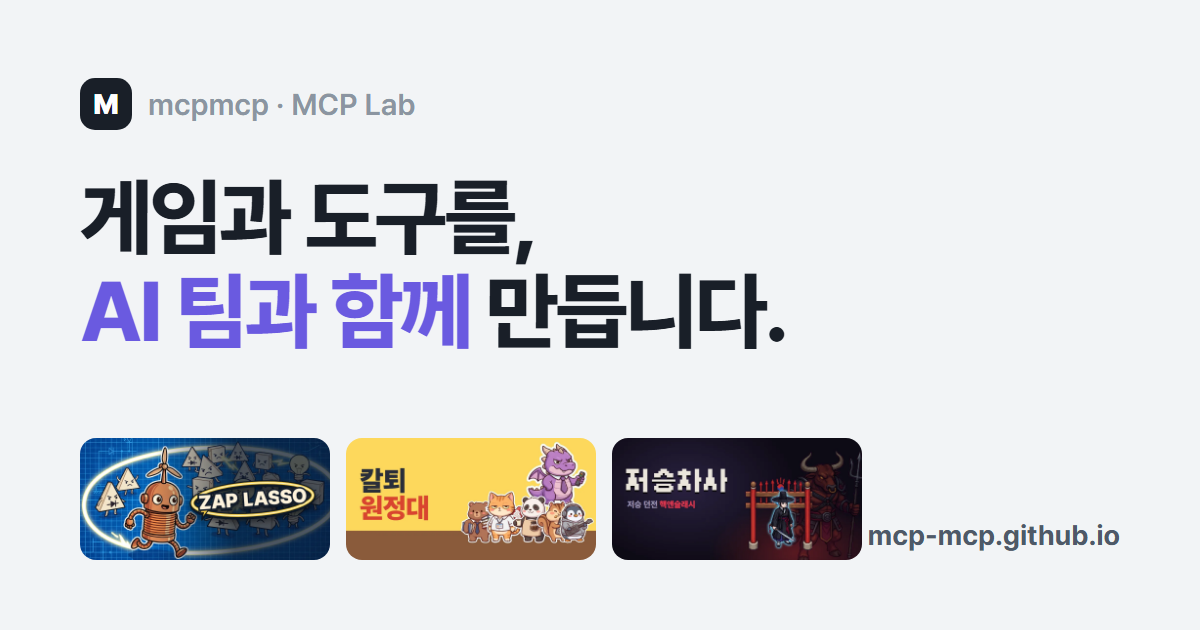
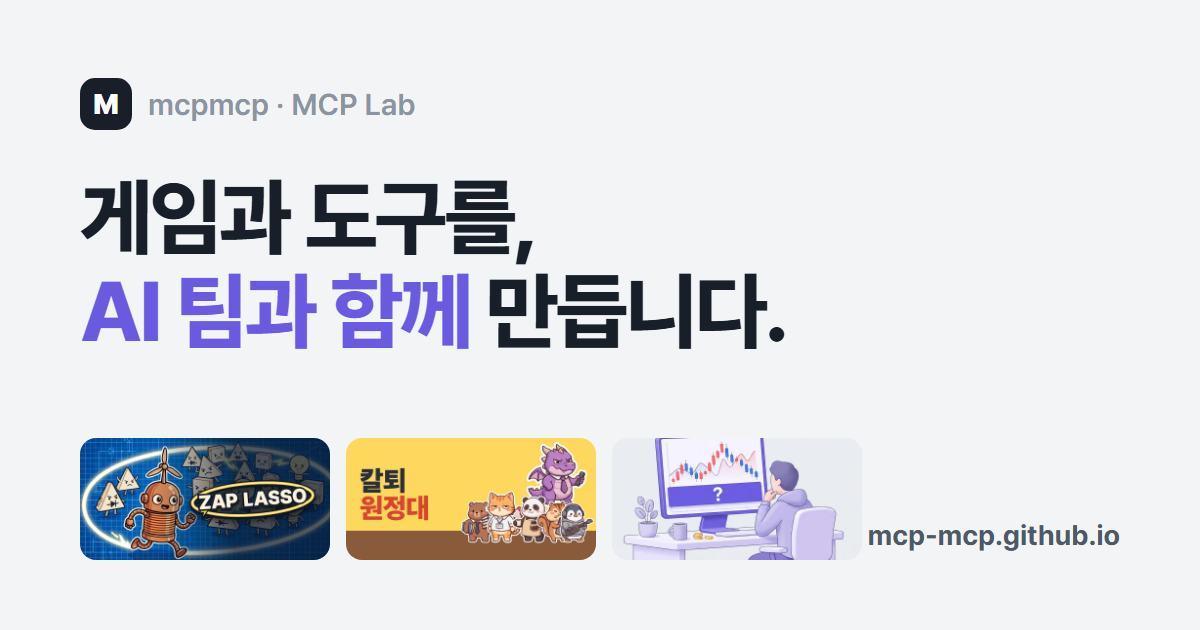
Remove discontinued game from playable list, update preview image

Changed region(s): [[0.4933, 0.6937, 0.74, 0.9048]]

diff --git a/index.html b/index.html
@@ -7,7 +7,7 @@
 <meta name="description" content="에너지 사업개발 일을 하는 비개발자가 AI 코딩 에이전트 팀과 만든 게임과 도구, 그리고 만드는 방식.">
 <meta property="og:type" content="website">
 <meta property="og:title" content="mcpmcp · Games, tools, and an AI team">
-<meta property="og:description" content="AI 코딩 에이전트 팀과 만든 게임 5종, 운영 중인 사이트 2곳, 공개 소스, 만드는 방식.">
+<meta property="og:description" content="AI 코딩 에이전트 팀과 만든 게임 4종, 운영 중인 사이트 2곳, 공개 소스, 만드는 방식.">
 <meta property="og:image" content="https://mcp-mcp.github.io/img/og.png">
 <meta property="og:url" content="https://mcp-mcp.github.io/">
 <meta name="twitter:card" content="summary_large_image">
@@ -56,11 +56,11 @@
       <a class="btn btn-sub" href="#sites"><span class="ko">운영 중인 사이트</span><span class="en">Sites I run</span></a>
     </p>
     <ul class="stats">
-      <li><b>5</b><span class="ko">브라우저에서 바로 되는 게임</span><span class="en">games you can play in the browser</span></li>
+      <li><b>4</b><span class="ko">브라우저에서 바로 되는 게임</span><span class="en">games you can play in the browser</span></li>
       <li><b>51</b><span class="ko">일을 나눈 영역(스트림)</span><span class="en">areas (streams) the work is split into</span></li>
       <li><b>1,400</b><span class="ko">AI가 짠 파이썬 파일, 주인 없는 파일 0</span><span class="en">Python files written by AI, each owned by a single area</span></li>
     </ul>
-    <p class="asof"><span class="ko">숫자는 2026-10-24 기준</span><span class="en">Numbers as of 2026-10-24</span></p>
+    <p class="asof"><span class="ko">숫자는 2026-11-10 기준</span><span class="en">Numbers as of 2026-11-10</span></p>
   </section>
 
   <section id="games" class="block wrap">
@@ -82,15 +82,6 @@
           <div class="g-head"><img class="g-icon" src="img/clock-out-heroes-icon.webp" width="40" height="40" alt=""><div><h3><span class="ko">칼퇴 원정대</span><span class="en">Clock-Out Heroes</span></h3><p class="g-genre"><span class="ko">방치형 RPG</span><span class="en">Idle RPG</span></p></div></div>
           <p class="g-desc"><span class="ko">동물 회사원 원정대가 회사 괴물을 무찌르며 층을 올라갑니다. 목표는 칼퇴.</span><span class="en">A squad of animal office workers fights office monsters floor by floor. The goal: leave on time.</span></p>
           <p class="chips"><span>Web</span><span>Windows</span><span class="ko">한국어·영어</span><span class="en">Korean · English</span></p>
-          <span class="play"><span class="ko">바로 하기</span><span class="en">Play</span> →</span>
-        </div>
-      </a>
-      <a class="game" href="https://mcplab.itch.io/jeoseung-chasa" target="_blank" rel="noopener">
-        <img src="img/jeoseung-chasa.webp" width="1024" height="500" alt="저승차사 대표 그림, 저승 관문 앞의 차사와 소머리 요괴" loading="lazy">
-        <div class="g-body">
-          <div class="g-head"><img class="g-icon" src="img/jeoseung-chasa-icon.webp" width="40" height="40" alt=""><div><h3><span class="ko">저승차사</span><span class="en">Jeoseung Chasa</span></h3><p class="g-genre"><span class="ko">핵앤슬래시</span><span class="en">Hack-and-slash · Korean underworld</span></p></div></div>
-          <p class="g-desc"><span class="ko">한국 저승의 요괴를 베며 던전을 내려갑니다. 끝에는 소머리 대장 우두나찰이 기다립니다.</span><span class="en">Play as a reaper of the Korean underworld (that's what "Jeoseung Chasa" means) and cut your way down to the bull-headed boss.</span></p>
-          <p class="chips"><span>Web</span><span>Windows</span><span class="ko">한국어·영어·일본어</span><span class="en">Korean · English · Japanese</span></p>
           <span class="play"><span class="ko">바로 하기</span><span class="en">Play</span> →</span>
         </div>
       </a>
